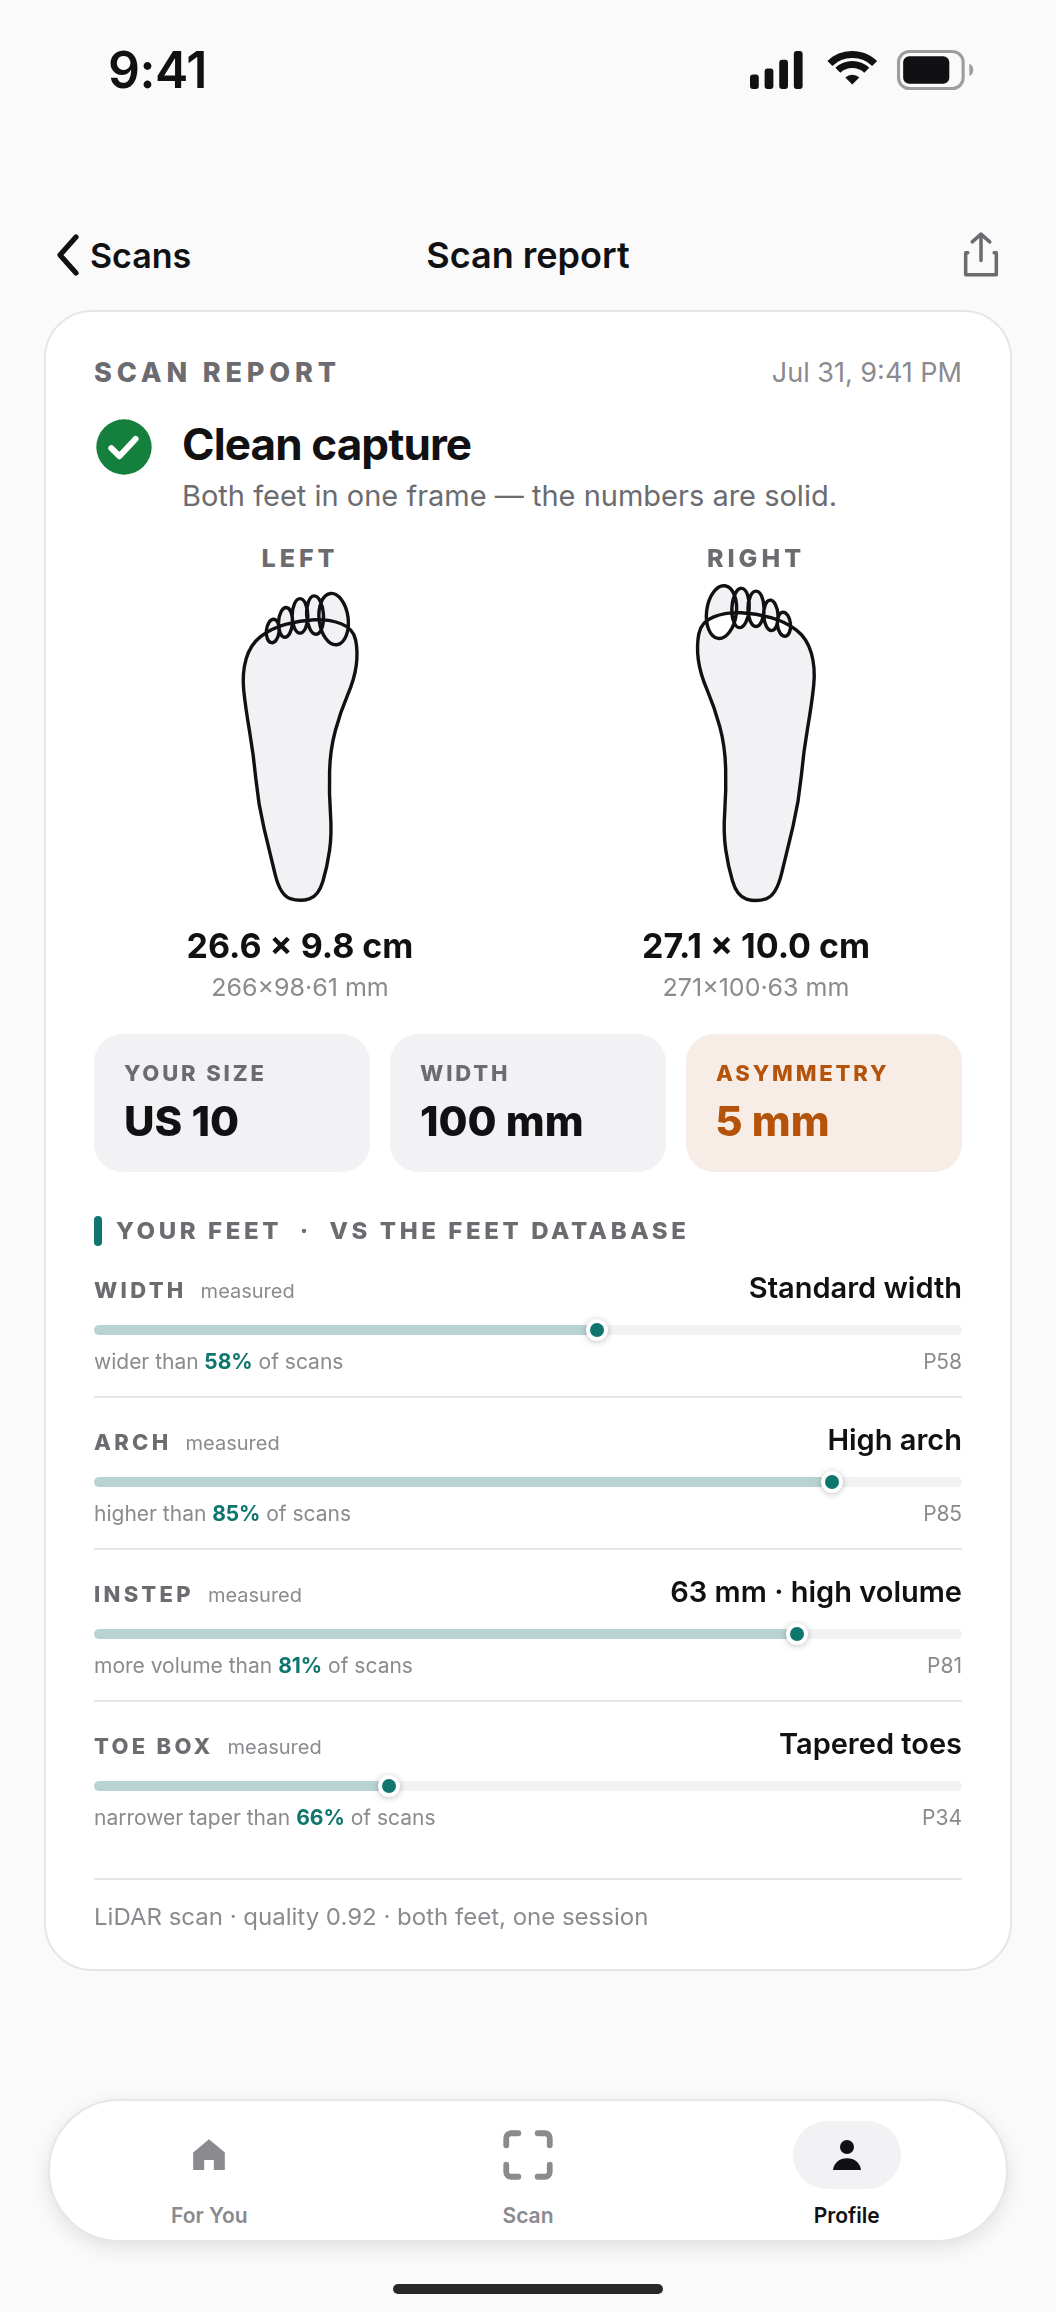
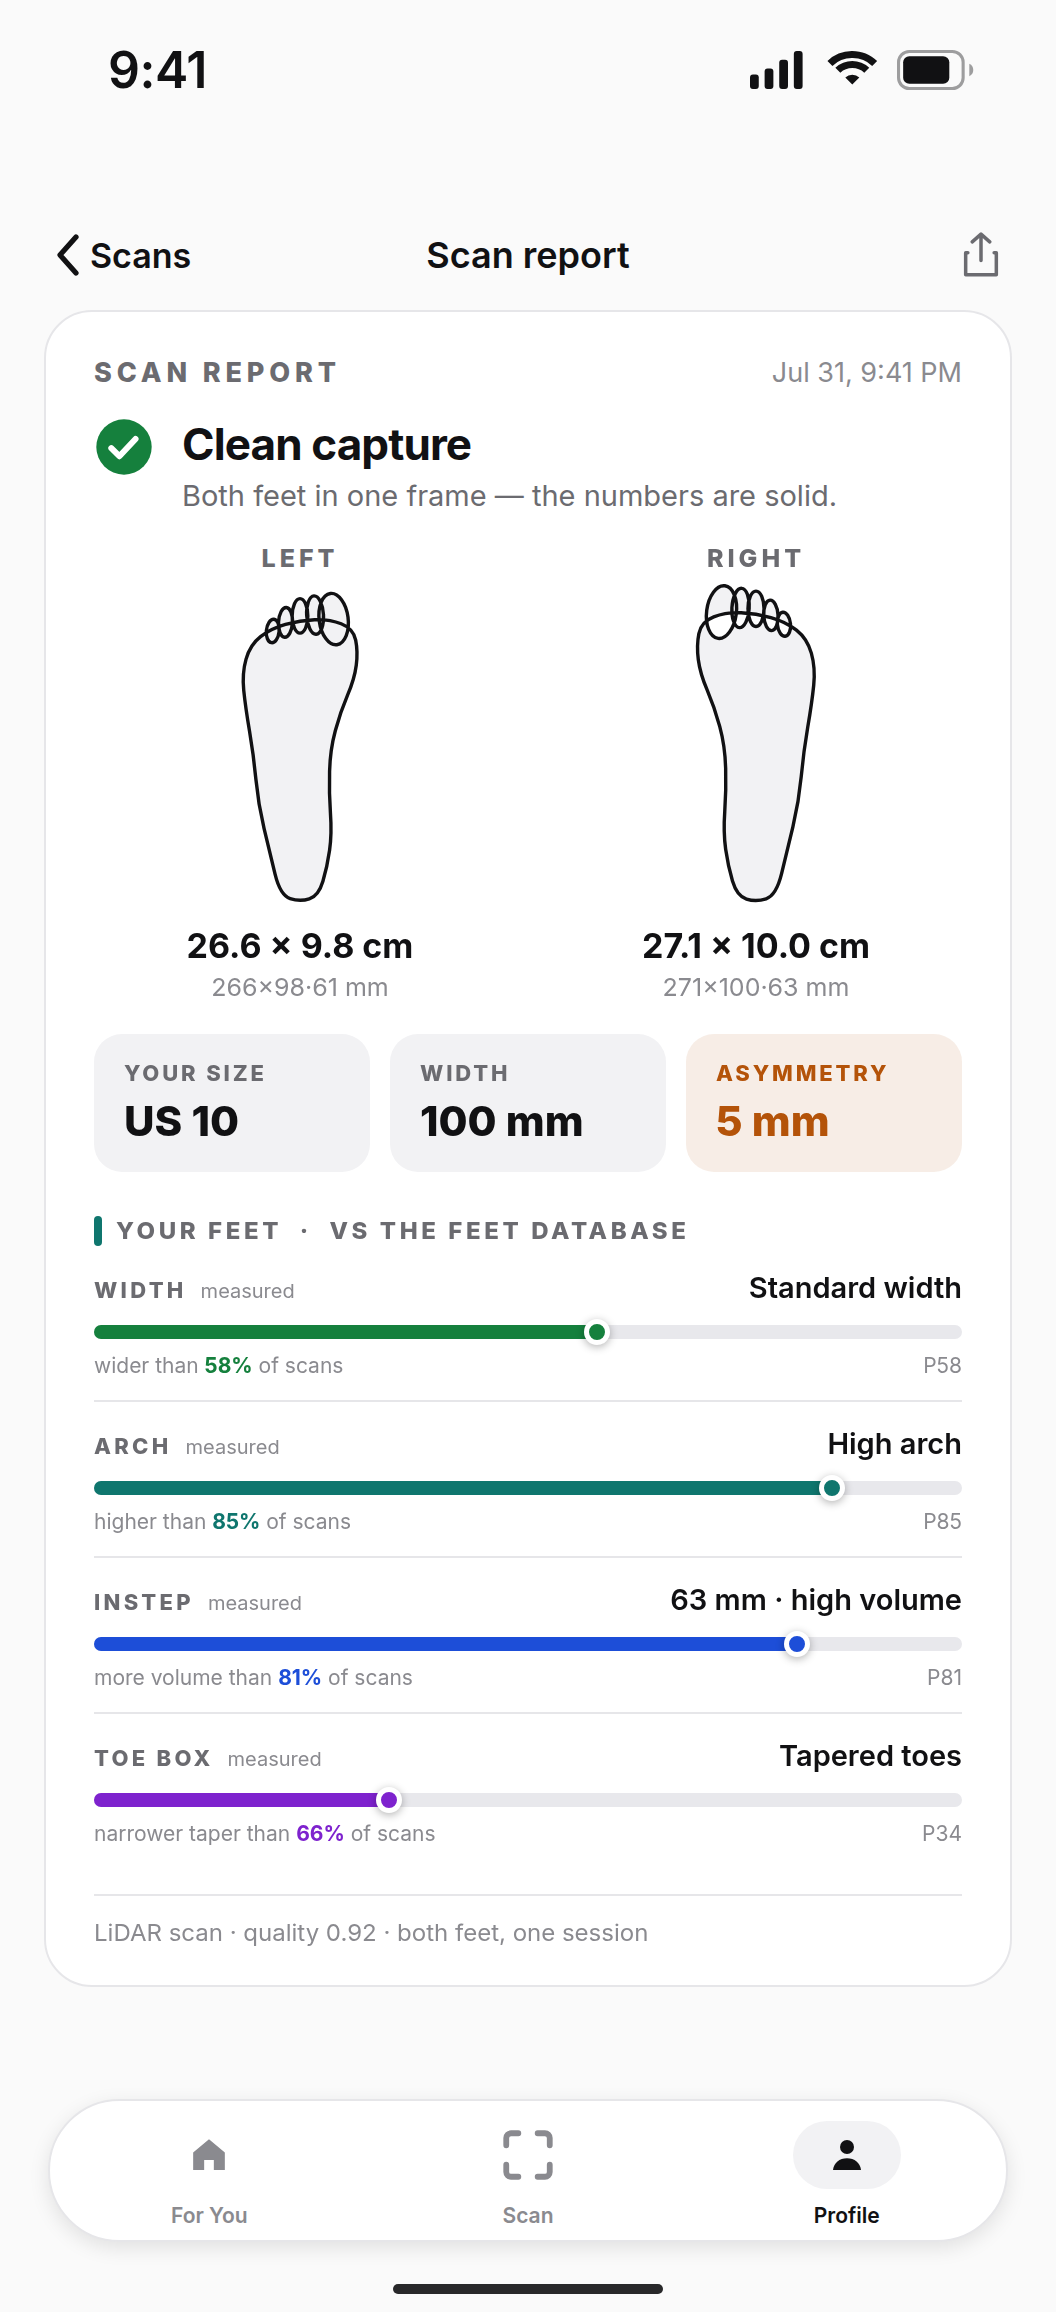
pins: brighter color-coded percentile gauges
Solid full-opacity bars on a slightly darker track, thicker with bigger
slider dots, one spectrum color per metric — width green, arch teal,
instep blue, toe box purple — with matching percentage accents in the
captions. Colors come from the app's own spectrum ramp. Prompt 2 and the
screenshot regenerated.

Claude-Session: https://claude.ai/code/session_01DF12MeCQsBsp8TmeobhWMm

Changed region(s): [[0.0938, 0.5606, 0.9062, 0.8408]]

diff --git a/pins/NANOBANANA.md b/pins/NANOBANANA.md
@@ -78,9 +78,10 @@ actual feet beats both.
 > pixel-identical to the attachment, including "26.6 × 9.8 cm",
 > "27.1 × 10.0 cm", the tiles ("US 10", "100 mm", "5 mm"), the toes-up
 > foot outlines, and the whole "YOUR FEET · VS THE FEET DATABASE" table —
-> four gauge rows (Width, Arch, Instep, Toe box) with their teal slider
-> dots, percentile captions ("wider than 58% of scans"…) and P-values
-> (P58, P85, P81, P34) exactly as positioned.
+> four gauge rows with solid color-coded bars and slider dots (Width green,
+> Arch teal, Instep blue, Toe box purple), their percentile captions
+> ("wider than 58% of scans"…) and P-values (P58, P85, P81, P34) exactly
+> as positioned.
 >
 > Typography on the post: one large white word, "Analyze", bold geometric
 > sans (like Inter ExtraBold), bottom-left, underlined, partially overlapping

diff --git a/pins/02-analyze/caption.md b/pins/02-analyze/caption.md
@@ -23,6 +23,6 @@ A phone on a dark studio backdrop showing a SoleFit scan report: a green
 "Clean capture" verdict, two traced toes-up foot outlines with measurements —
 left 26.6 by 9.8 cm, right 27.1 by 10 cm — tiles for size US 10, width
 100 mm and a 5 mm asymmetry flag, then a "Your feet vs the feet database"
-table with percentile gauges: standard width at P58, high arch at P85,
-63 mm high-volume instep at P81, tapered toe box at P34. The word "Analyze"
+table with bright color-coded percentile gauges — green width at P58, teal arch at P85,
+blue 63 mm high-volume instep at P81, purple tapered toe box at P34. The word "Analyze"
 is written large at the bottom left.
